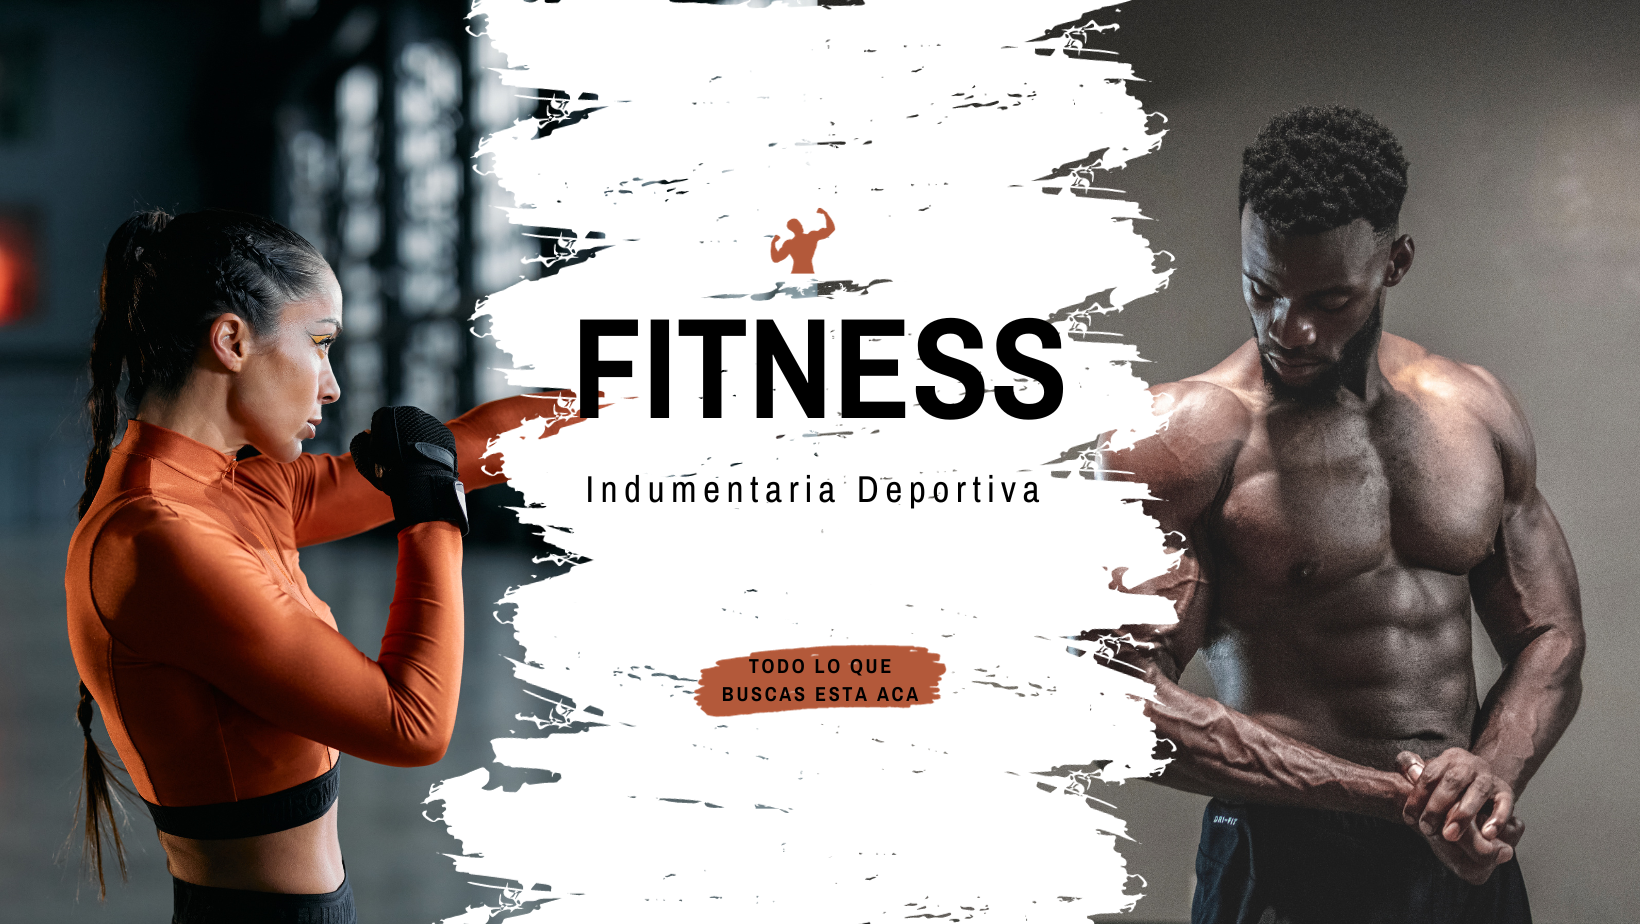
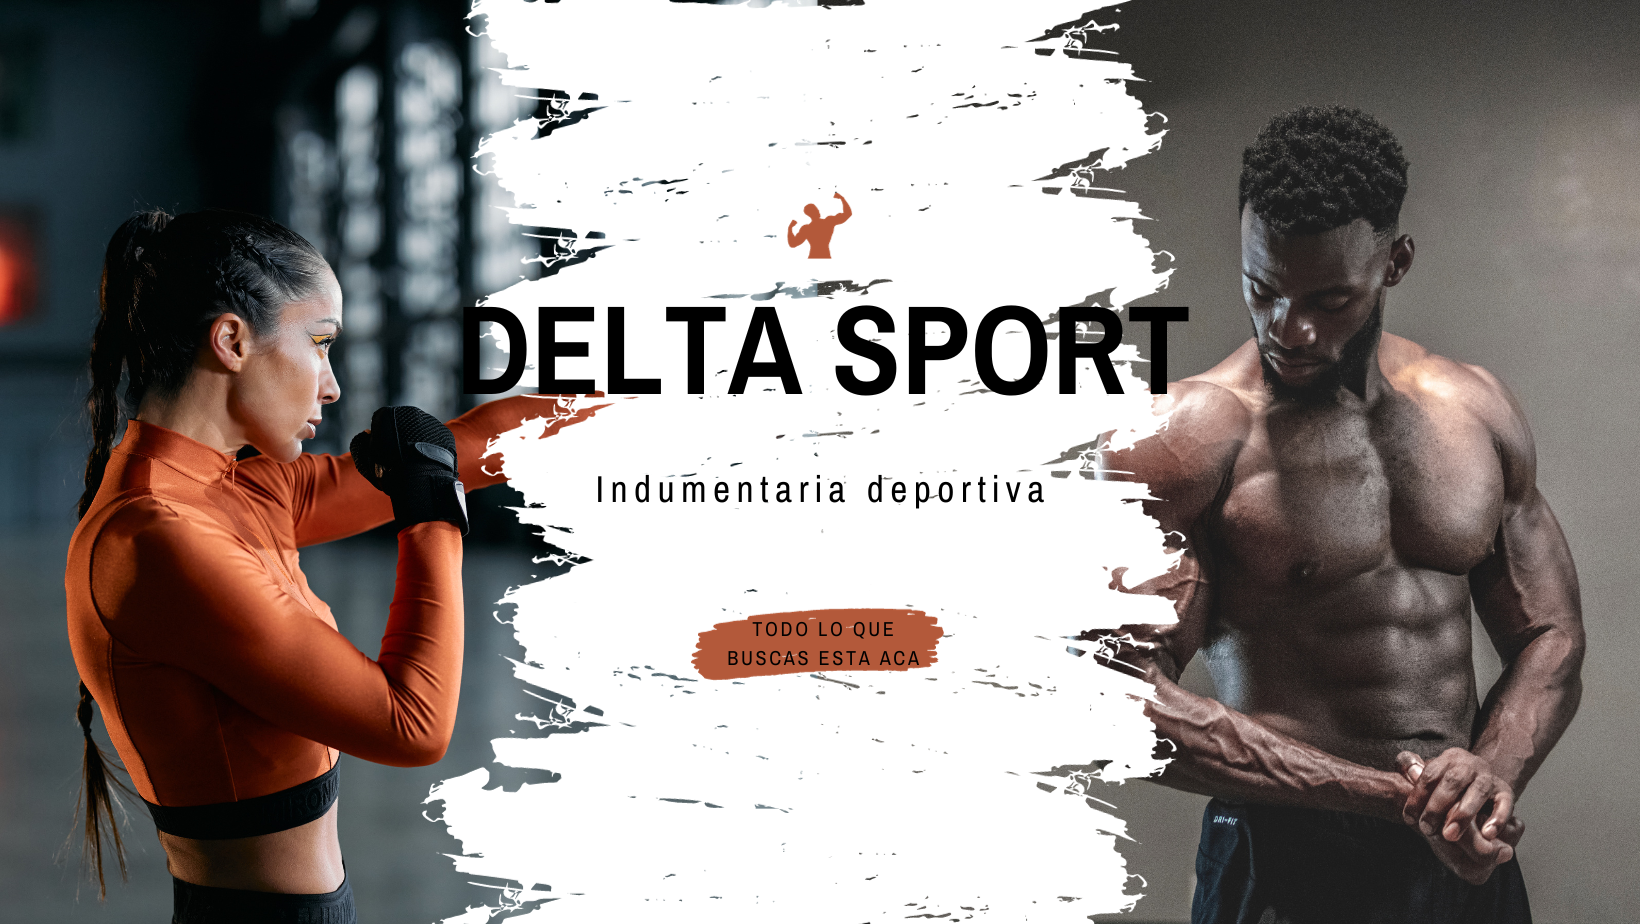
Cambios

diff --git a/Ecommerce/src/index.html b/Ecommerce/src/index.html
@@ -15,7 +15,7 @@
     <script src="./js/main.js" defer type="module"></script>
     <script src="./js/carrito.js" defer></script>
     <script src="https://kit.fontawesome.com/41bcea2ae3.js" crossorigin="anonymous"></script>
-    <title>Terra Dietética</title>
+    <title>Delta Sports</title>
     <link href="https://fonts.googleapis.com/css2?family=Montserrat:wght@400;700&display=swap" rel="stylesheet">
     <style>
         body {
@@ -85,13 +85,13 @@
         <h1 class="heading-1">Categorías destacadas</h1>
         <div class="container-products">
             <div class="card-category category-Mujeres">
-                 <button class="btn-mujeres-destacado">Indumentaria Mujeres </button>
+                 <button class="btn-mujeres-destacado">Remeras Dama </button>
             </div>
             <div class="card-category category-Hombres">
-               <button class="btn-hombres-destacado">Indumentaria Hombres</button>
+               <button class="btn-hombres-destacado">Remeras Hombre</button>
             </div>
             <div class="card-category category-Accesorios">
-               <button class="btn-accesorios-destacado">Accesorios </button>
+               <button class="btn-accesorios-destacado">Cinturones</button>
             </div>
         </div>
     </section>        
@@ -117,7 +117,7 @@
                  <!-- Producto 1 -->
                  <div class="card-product">
                      <div class="container-img">
-                         <img src="./assets/img/sudadera.webp" alt="sudadera" />
+                         <img src="./assets/img/chameleonblanco.jpg" alt="chameleonblanco" />
                          <span class="discount">-13%</span>
                          <div class="button-group"></div>
                      </div>
@@ -129,14 +129,14 @@
                              <i class="fa-solid fa-star"></i>
                              <i class="fa-regular fa-star"></i>
                          </div>
-                         <h3>Sudadera Rn</h3>
-                         <p class="price">$14500 <span>$16500</span></p>
+                         <h3>Remera Chameleon Blanco</h3>
+                         <p class="price">$20520 <span>$22000</span></p>
                      </div>
                  </div>
                  <!-- Producto 2 -->
                  <div class="card-product">
                      <div class="container-img">
-                         <img src="./assets/img/remeraRunning.webp" alt="remeraRunning"/>
+                         <img src="./assets/img/remerafilarunning.jpg" alt="remerafilarunning"/>
                          <span class="discount">-22%</span>
                          <div class="button-group"></div>
                      </div>
@@ -148,14 +148,14 @@
                              <i class="fa-regular fa-star"></i>
                              <i class="fa-regular fa-star"></i>
                          </div>
-                         <h3>Remera Running</h3>
-                         <p class="price">$15000 <span>$16700</span></p>
+                         <h3>Musculosa Fila Running</h3>
+                         <p class="price">$17200<span>$19500</span></p>
                      </div>
                  </div>
                  <!-- Producto 3  -->
                  <div class="card-product">
                      <div class="container-img">
-                         <img src="./assets/img/calzaFira.webp" alt="calzaFira"/>
+                         <img src="./assets/img/pantalonpumagraphic.jpg" alt="pantalonpumagraphic"/>
                          <span class="discount">-14%</span>
                          <div class="button-group"></div>
                      </div>
@@ -167,14 +167,14 @@
                              <i class="fa-solid fa-star"></i>
                              <i class="fa-solid fa-star"></i>
                          </div>
-                         <h3>Calza Fira</h3>
+                         <h3>Calza Puma Graphic</h3>
                          <p class="price">$9800<span>$10300</span></p>
                      </div>
                  </div>
                  <!-- Producto 4  -->
                  <div class="card-product">
                      <div class="container-img">
-                         <img src="./assets/img/remeraGym.webp" alt="remeraGym" />
+                         <img src="./assets/img/montagneroja.jpg" alt="montagneroja" />
                          <span class="discount">-%21</span></div>
                          <div class="button-group"> </div>
                      <div class="content-card-product">
@@ -185,15 +185,15 @@
                              <i class="fa-solid fa-star"></i>
                              <i class="fa-regular fa-star"></i>
                          </div>
-                         <h3>Remera Hombre</h3>
+                         <h3>Remera Montagne Roja</h3>
                          </span>
-                         <p class="price">$14500<span>$15700</span></p>
+                         <p class="price">$54985<span>$58500</span></p>
                      </div>
                  </div>
                  <!-- Producto 5 -->
                  <div class="card-product">
                     <div class="container-img">
-                        <img src="./assets/img/topNike.webp" alt="topNike"/>
+                        <img src="./assets/img/rodilleraemo.jpg" alt="rodilleraemo"/>
                         <span class="discount">-27%</span>
                         <div class="button-group"></div>
                     </div>
@@ -205,14 +205,14 @@
                             <i class="fa-regular fa-star"></i>
                             <i class="fa-regular fa-star"></i>
                         </div>
-                        <h3>Top Nike</h3>
-                        <p class="price">$13600 <span>$16000</span></p>
+                        <h3>Rodillera EMO</h3>
+                        <p class="price">$16600 <span>$19000</span></p>
                     </div>
                 </div>
                 <!-- Producto 6 -->
                 <div class="card-product">
                     <div class="container-img">
-                        <img src="./assets/img/remeraAddidas.webp" alt="remeraAddidas"/>
+                        <img src="./assets/img/strapsbalboafit.jpg" alt="strapsbalboafit"/>
                         <span class="discount">-18%</span>
                         <div class="button-group"></div>
                     </div>
@@ -224,7 +224,7 @@
                             <i class="fa-regular fa-star"></i>
                             <i class="fa-regular fa-star"></i>
                         </div>
-                        <h3>Remera Addidas </h3>
+                        <h3>Straps Balboa Fit</h3>
                         <p class="price">$15600 <span>$18000</span></p>
                     </div>
                 </div>
@@ -255,11 +255,11 @@
                     </div>
                 </div>
                 <div class="box__footer">
-                    <h2>Ubicacion</h2>
+                    <h2>Ubicación</h2>
                     <div class="direccion-ubicacion">
                         <p class="calle"> San Martin 150 Argentina</p>
                         <p class="telefono">(54) 2614365206</p>
-                        <p class="correo"> delta.esport@gmail.com</p>
+                        <p class="correo"> delta.sport@gmail.com</p>
                     </div>
     
                     <div class="horarios">

diff --git a/Ecommerce/src/css/styles.css b/Ecommerce/src/css/styles.css
@@ -85,7 +85,7 @@ body {
 
 .category-Hombres{
 	background-image: linear-gradient(#73282880, #00000080),
-		url('./img/Keto-category.jpg');
+		url('./img/Hombre-category.jpg');
 	background-size: cover;
 	background-position: center;
 	background-repeat: no-repeat;
@@ -93,7 +93,7 @@ body {
 
 .category-Accesorios {
 	background-image: linear-gradient(#edac2ab7, #00000080),
-		url('./img/Natural-category.jpg');
+		url('./img/Cinturones-category.jpg');
 	background-size: cover;
 	background-position: center;
 	background-repeat: no-repeat;
